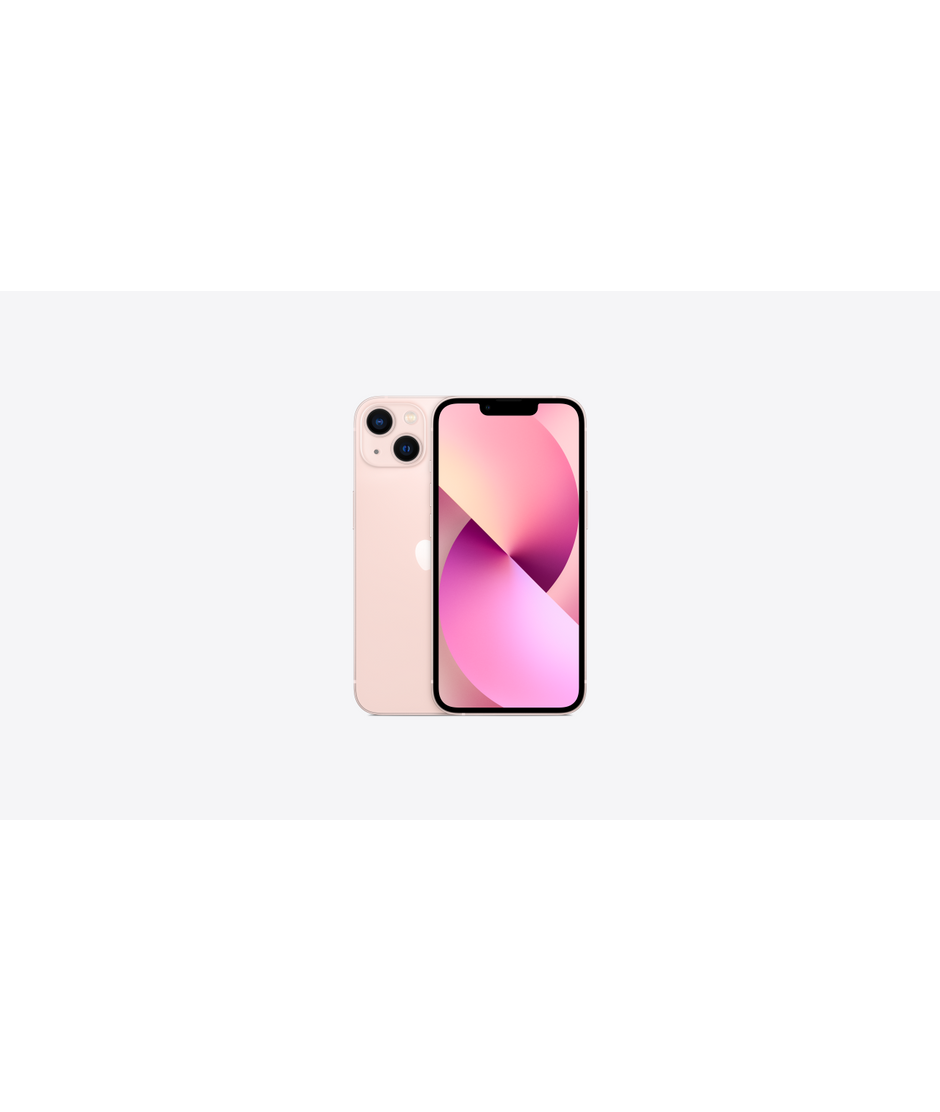
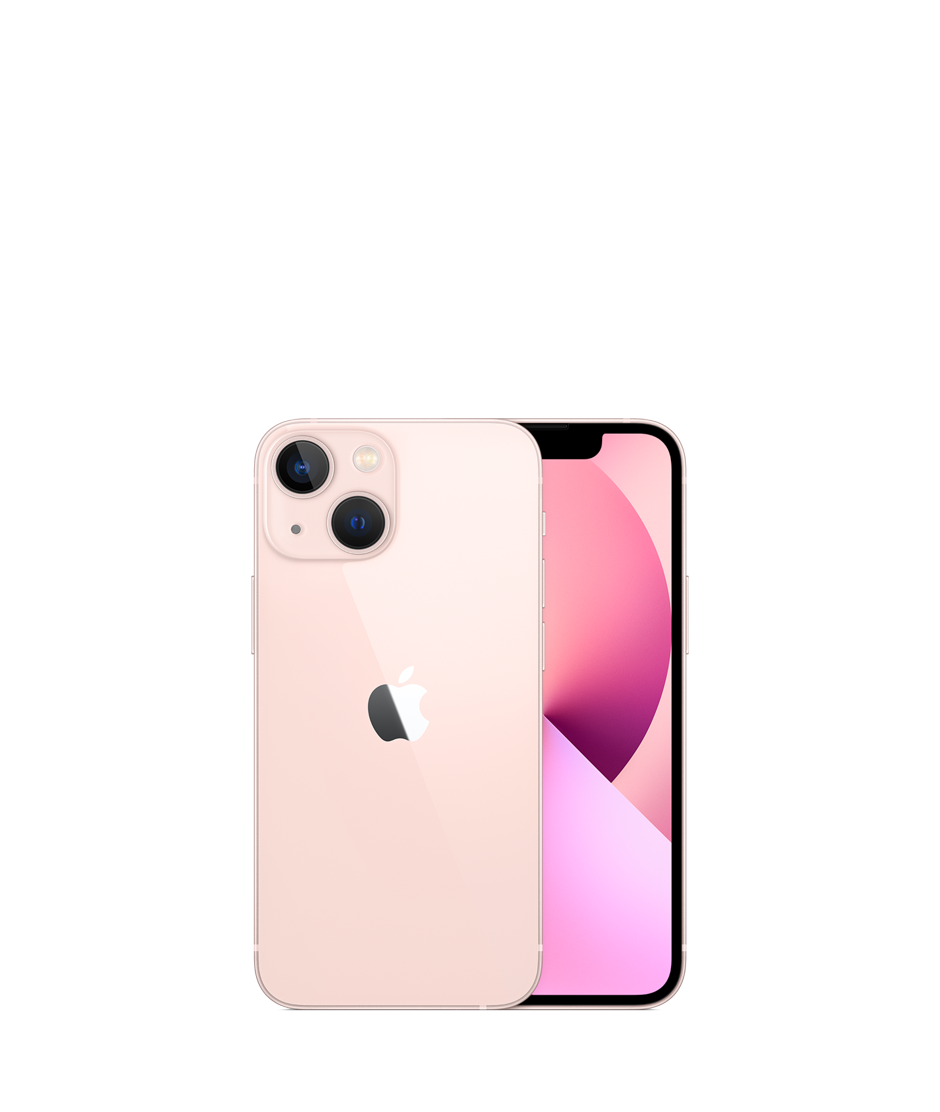
fix(apple): update iphone 13 and 13 mini with dedicated mini renders and green color

Changed region(s): [[0.2468, 0.3363, 0.7404, 0.9173]]

diff --git a/scripts/lib/apple-api.ts b/scripts/lib/apple-api.ts
@@ -1131,6 +1131,13 @@ export function getAppleCatalog(): AppleModelEntry[] {
             'https://store.storeimages.cdn-apple.com/4982/as-images.apple.com/is/iphone-13-finish-select-202207-blue?wid=940&hei=1112&fmt=png-alpha',
         },
         {
+          name: 'Green',
+          hex: '#3B4E3E',
+          imageFile: 'green.png',
+          imageUrl:
+            'https://store.storeimages.cdn-apple.com/4982/as-images.apple.com/is/iphone-13-finish-select-202207-green?wid=940&hei=1112&fmt=png-alpha',
+        },
+        {
           name: 'Product Red',
           hex: '#B81E29',
           imageFile: 'product-red.png',
@@ -1153,6 +1160,7 @@ export function getAppleCatalog(): AppleModelEntry[] {
         'starlight.png',
         'pink.png',
         'blue.png',
+        'green.png',
         'product-red.png',
       ],
     },
@@ -1176,28 +1184,35 @@ export function getAppleCatalog(): AppleModelEntry[] {
           hex: '#FAF6F2',
           imageFile: 'starlight.png',
           imageUrl:
-            'https://store.storeimages.cdn-apple.com/4982/as-images.apple.com/is/iphone-13-finish-select-202207-starlight?wid=940&hei=1112&fmt=png-alpha',
+            'https://store.storeimages.cdn-apple.com/4982/as-images.apple.com/is/iphone-13-mini-starlight-select-2021?wid=940&hei=1112&fmt=png-alpha',
         },
         {
           name: 'Pink',
           hex: '#F9DFDC',
           imageFile: 'pink.png',
           imageUrl:
-            'https://store.storeimages.cdn-apple.com/4982/as-images.apple.com/is/iphone-13-finish-select-202207-pink?wid=940&hei=1112&fmt=png-alpha',
+            'https://store.storeimages.cdn-apple.com/4982/as-images.apple.com/is/iphone-13-mini-pink-select-2021?wid=940&hei=1112&fmt=png-alpha',
         },
         {
           name: 'Blue',
           hex: '#276787',
           imageFile: 'blue.png',
           imageUrl:
-            'https://store.storeimages.cdn-apple.com/4982/as-images.apple.com/is/iphone-13-finish-select-202207-blue?wid=940&hei=1112&fmt=png-alpha',
+            'https://store.storeimages.cdn-apple.com/4982/as-images.apple.com/is/iphone-13-mini-blue-select-2021?wid=940&hei=1112&fmt=png-alpha',
+        },
+        {
+          name: 'Green',
+          hex: '#3B4E3E',
+          imageFile: 'green.png',
+          imageUrl:
+            'https://store.storeimages.cdn-apple.com/4982/as-images.apple.com/is/iphone-13-mini-green-select?wid=940&hei=1112&fmt=png-alpha',
         },
         {
           name: 'Product Red',
           hex: '#B81E29',
           imageFile: 'product-red.png',
           imageUrl:
-            'https://store.storeimages.cdn-apple.com/4982/as-images.apple.com/is/iphone-13-finish-select-202207-product-red?wid=940&hei=1112&fmt=png-alpha',
+            'https://store.storeimages.cdn-apple.com/4982/as-images.apple.com/is/iphone-13-mini-product-red-select-2021?wid=940&hei=1112&fmt=png-alpha',
         },
       ],
       storageOptions: ['128GB', '256GB', '512GB'],
@@ -1215,6 +1230,7 @@ export function getAppleCatalog(): AppleModelEntry[] {
         'starlight.png',
         'pink.png',
         'blue.png',
+        'green.png',
         'product-red.png',
       ],
     },

diff --git a/scripts/lib/apple-storage.ts b/scripts/lib/apple-storage.ts
@@ -59,6 +59,7 @@ export async function downloadAppleImage(
             'Mozilla/5.0 (Windows NT 10.0; Win64; x64) AppleWebKit/537.36 (KHTML, like Gecko) Chrome/128.0.0.0 Safari/537.36',
           Accept: 'image/avif,image/webp,image/apng,image/svg+xml,image/*,*/*;q=0.8',
         },
+        signal: AbortSignal.timeout(10000),
       });
 
       if (!response.ok) {
